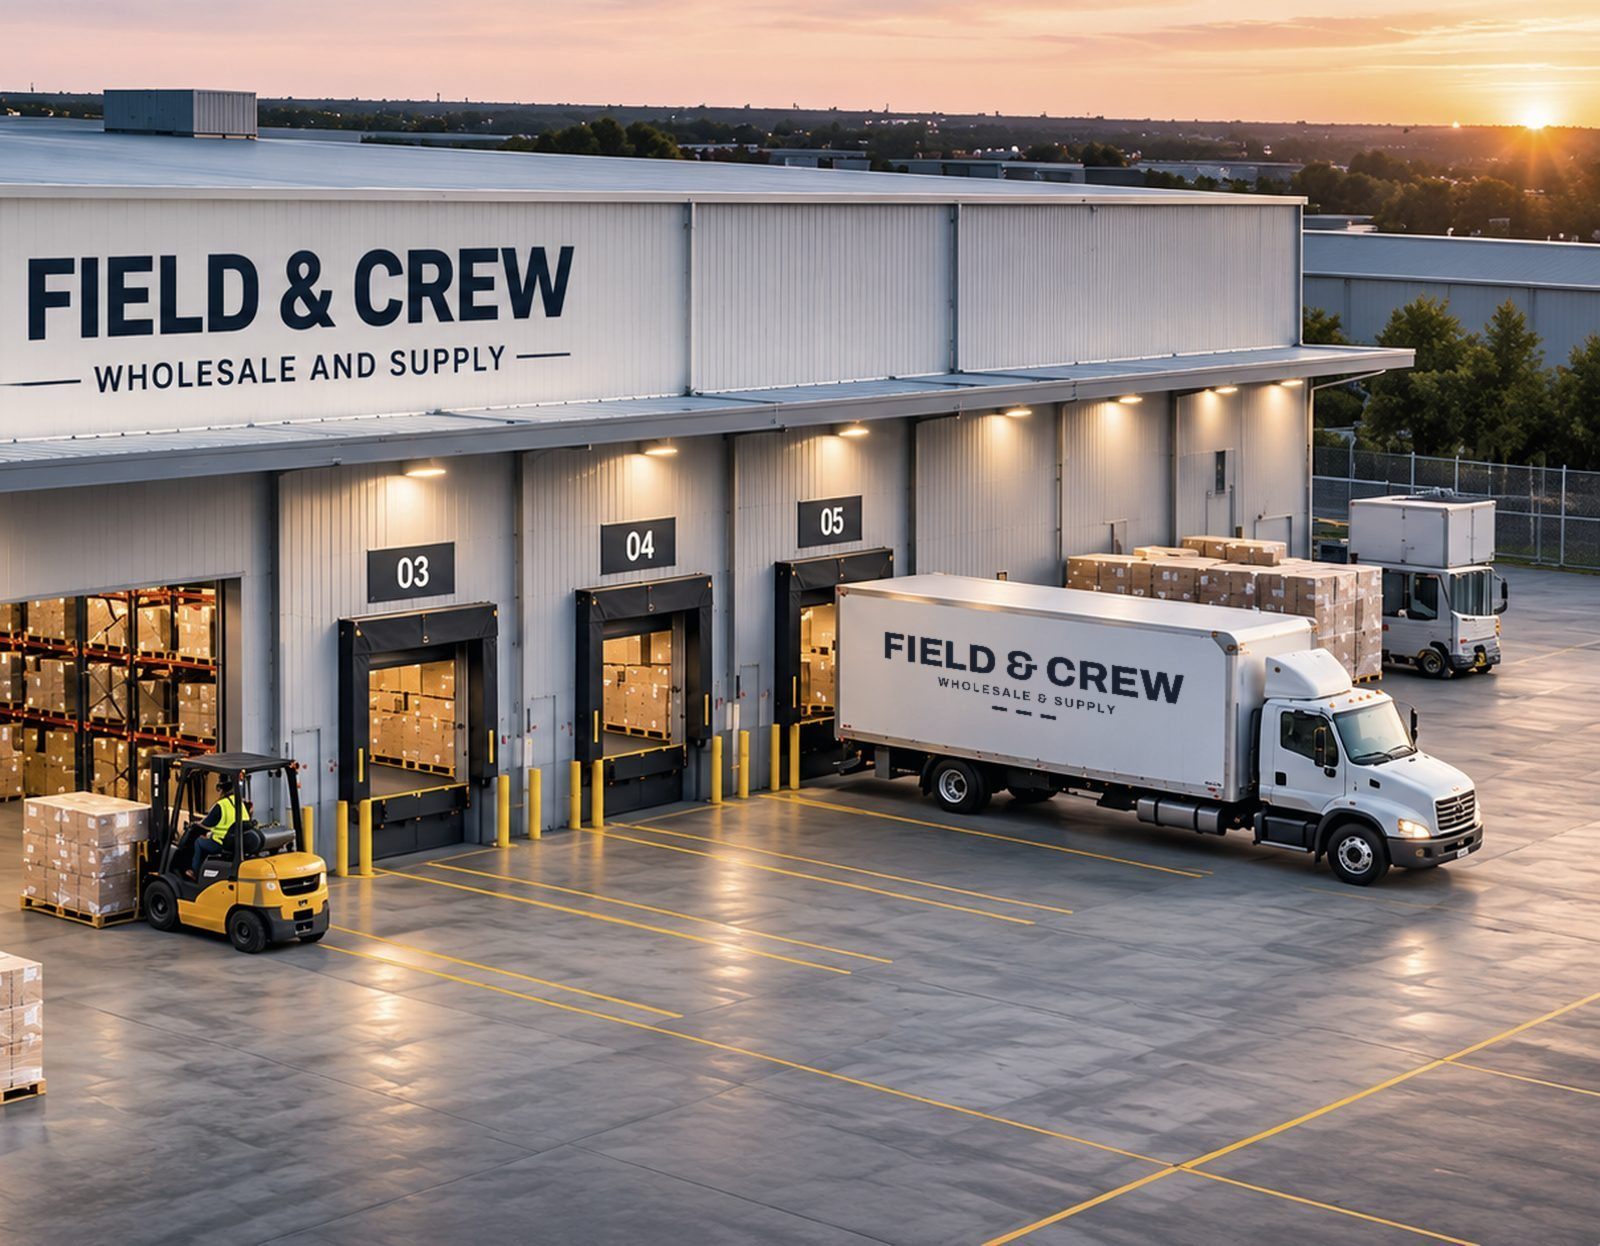
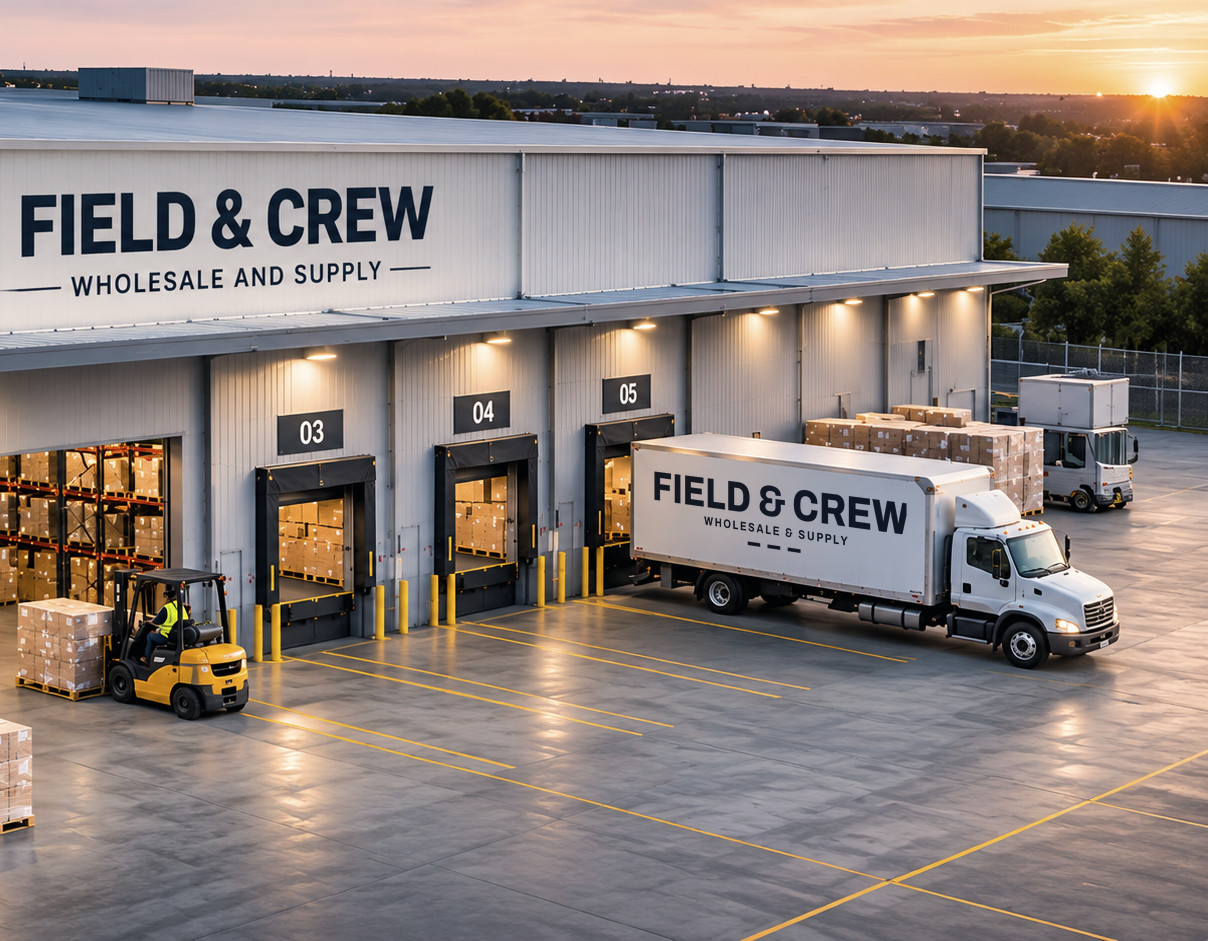
Sharper truck lettering; keep photo at native resolution
Claude-Session: https://claude.ai/code/session_01RsstQkqEWq5duVqr6jPwEL

diff --git a/index.html b/index.html
@@ -213,7 +213,7 @@ form{display:grid;grid-template-columns:1fr 1fr;gap:18px 20px}
 
 
   <figure class="photo">
-    <img src="images/warehouse.jpg?v=2" alt="Field &amp; Crew loading docks with pallets of boxed orders and a delivery truck" width="1600" height="1246" fetchpriority="high">
+    <img src="images/warehouse.jpg?v=3" alt="Field &amp; Crew loading docks with pallets of boxed orders and a delivery truck" width="1208" height="941" fetchpriority="high">
     <figcaption><svg width="40" height="6" viewBox="0 0 40 6" aria-hidden="true"><g stroke-width="3"><line x1="0" y1="3" x2="9" y2="3"/><line x1="15" y1="3" x2="24" y2="3"/><line x1="31" y1="3" x2="40" y2="3"/></g></svg>Supplied anywhere in the United States</figcaption>
   </figure>
 
